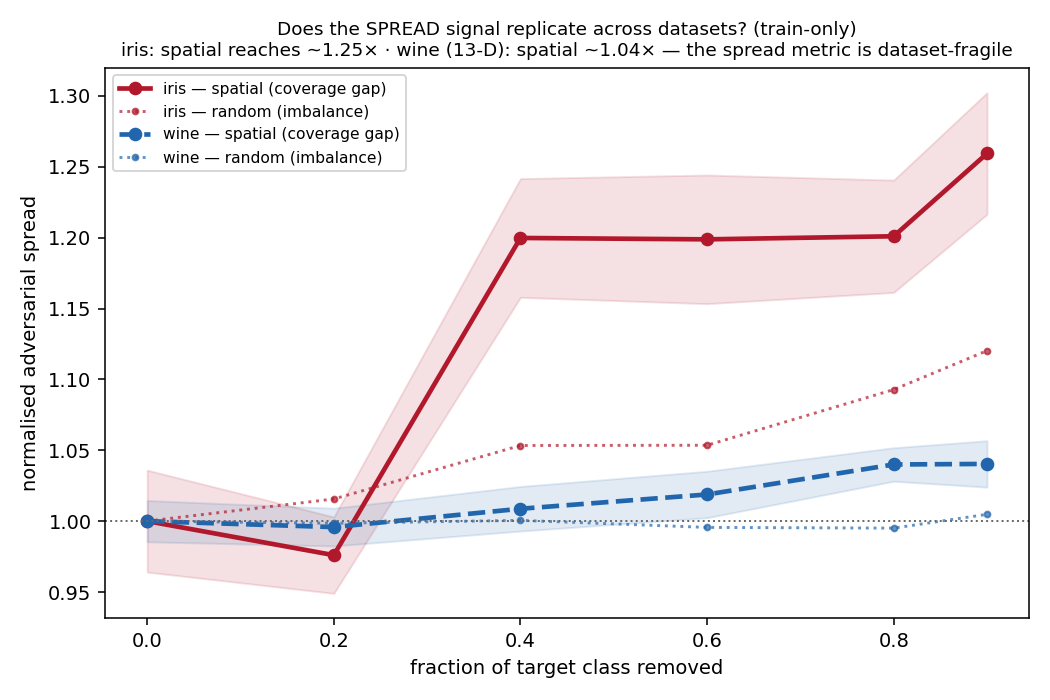
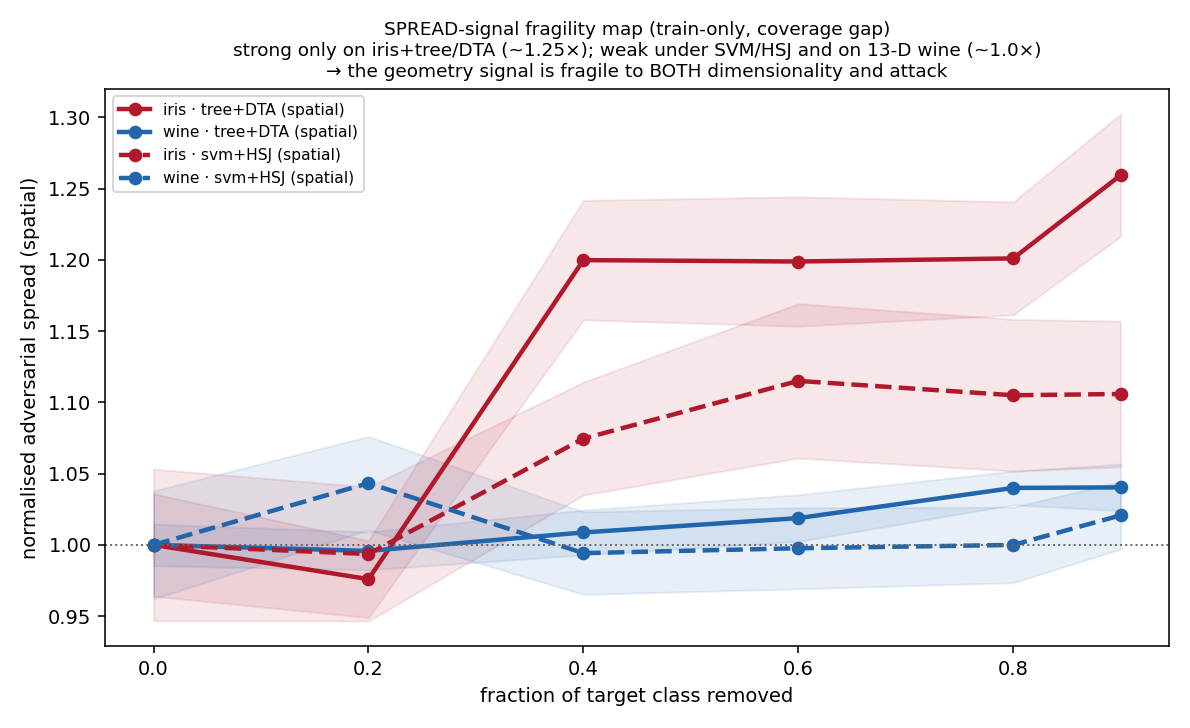
Variance study: add SVM+HSJ cross-dataset; spread signal fragile to attack too
- run_variance.py: +svm+HSJ (--model svm, own parquet, checkpointed); +--smoke/--nseeds.
- plot_variance.py: model-aware -> variance_svm_{iris,wine}.png + tree-vs-svm fragility map.
- results_variance_svm.parquet (630 rows, 15 seeds).
- FINDINGS_variance F4: recall discriminator REPLICATES + strong under svm+HSJ
  (wine spatial recall 0.48 vs random 0.90); spread signal WEAKENS further (iris 1.11x
  under HSJ vs 1.26x DTA; wine ~1.0x) -> geometry signal fragile to BOTH dimensionality
  AND attack. before-split composition artifact + accuracy confound both replicate.
  RF+HSJ skipped (impractical). Model-coverage caveat updated.

diff --git a/defect_expansion_experiment/plot_variance.py b/defect_expansion_experiment/plot_variance.py
@@ -19,7 +19,11 @@ import matplotlib.pyplot as plt
 
 HERE = Path(__file__).resolve().parent
 PLOTS = HERE / 'plots'; PLOTS.mkdir(exist_ok=True)
-D = pl.read_parquet(HERE / 'results_variance.parquet')
+DFS = {'tree+DTA': pl.read_parquet(HERE / 'results_variance.parquet')}
+_svm = HERE / 'results_variance_svm.parquet'
+if _svm.exists():
+    DFS['svm+HSJ'] = pl.read_parquet(_svm)
+D = DFS['tree+DTA']                                    # default for the per-dataset 3x2 figures
 FRAC = [0.0, 0.2, 0.4, 0.6, 0.8, 0.9]
 COL = {'random': '#2ca25f', 'spatial': '#c0392b'}
 LAB = {'random': 'random (imbalance)', 'spatial': 'spatial (coverage gap)'}
@@ -27,18 +31,20 @@ DS_TITLE = {'iris': 'iris (4-D · tc=2 virginica · feat=petal width)',
             'wine': 'wine (13-D · tc=0 · feat=proline)'}
 
 
-def base_spread(ds):
-    return D.filter((pl.col('dataset') == ds) & (pl.col('frac') == 0.0))['mean_dist'].drop_nans().mean()
+def base_spread(ds, df=None):
+    df = D if df is None else df
+    return df.filter((pl.col('dataset') == ds) & (pl.col('frac') == 0.0))['mean_dist'].drop_nans().mean()
 
 
-def series(ds, structure, protocol, col, norm=None):
+def series(ds, structure, protocol, col, norm=None, df=None):
+    df = D if df is None else df
     xs, ms, cis = [], [], []
     for f in FRAC:
         if f == 0.0:
-            sub = D.filter((pl.col('dataset') == ds) & (pl.col('frac') == 0.0))
+            sub = df.filter((pl.col('dataset') == ds) & (pl.col('frac') == 0.0))
         else:
-            sub = D.filter((pl.col('dataset') == ds) & (pl.col('frac') == f) &
-                           (pl.col('structure') == structure) & (pl.col('protocol') == protocol))
+            sub = df.filter((pl.col('dataset') == ds) & (pl.col('frac') == f) &
+                            (pl.col('structure') == structure) & (pl.col('protocol') == protocol))
         v = sub[col].drop_nans()
         if len(v):
             m = float(v.mean()); s = float(v.std()) if len(v) > 1 else 0.0
@@ -47,8 +53,10 @@ def series(ds, structure, protocol, col, norm=None):
     return np.array(xs), np.array(ms), np.array(cis)
 
 
-def fig_dataset(ds):
-    nb = base_spread(ds)
+def fig_dataset(ds, df=None, ma='tree+DTA', suffix=''):
+    global D
+    D = df if df is not None else DFS[ma]
+    nb = base_spread(ds, D)
     rows = [('vacc', 'test accuracy', None, (0, 1.03)),
             ('min_recall', 'minority-class recall', None, (0, 1.03)),
             ('mean_dist', 'normalised adversarial spread\n(× clean baseline)', nb, None)]
@@ -75,30 +83,30 @@ def fig_dataset(ds):
                 ax.set_xlabel('fraction of target class removed (severity)')
             if i == 0 and j == 0:
                 ax.legend(fontsize=8, loc='lower left')
-    fig.suptitle(f'{DS_TITLE[ds]} — overfit tree + white-box DTA, 30 seeds\n'
+    fig.suptitle(f'{DS_TITLE[ds]} — {ma}\n'
                  'coverage gap (spatial) vs imbalance (random) · train-only vs before-split',
                  fontsize=12)
     fig.tight_layout(rect=[0, 0, 1, 0.95])
-    p = PLOTS / f'variance_{ds}.png'; fig.savefig(p, dpi=135); plt.close(fig)
+    p = PLOTS / f'variance{suffix}_{ds}.png'; fig.savefig(p, dpi=135); plt.close(fig)
     print('wrote', p)
 
 
 def fig_summary():
-    """Cross-dataset: spatial normalised spread, train-only — does the spread signal replicate?"""
-    fig, ax = plt.subplots(figsize=(7.5, 5))
-    style = {'iris': ('-', '#b2182b'), 'wine': ('--', '#2166ac')}
-    for ds, (ls, c) in style.items():
-        nb = base_spread(ds)
-        x, m, ci = series(ds, 'spatial', 'train_only', 'mean_dist', norm=nb)
-        ax.plot(x, m, marker='o', ls=ls, lw=2.4, color=c, label=f'{ds} — spatial (coverage gap)')
-        ax.fill_between(x, m - ci, m + ci, color=c, alpha=0.13)
-        xr, mr, cir = series(ds, 'random', 'train_only', 'mean_dist', norm=nb)
-        ax.plot(xr, mr, marker='.', ls=':', lw=1.5, color=c, alpha=0.7, label=f'{ds} — random (imbalance)')
+    """Spatial normalised spread, train-only, across dataset x (model,attack) — the fragility map."""
+    fig, ax = plt.subplots(figsize=(8.5, 5.2))
+    col = {'iris': '#b2182b', 'wine': '#2166ac'}
+    ls = {'tree+DTA': '-', 'svm+HSJ': '--'}
+    for ma, df in DFS.items():
+        for ds in ['iris', 'wine']:
+            nb = base_spread(ds, df)
+            x, m, c = series(ds, 'spatial', 'train_only', 'mean_dist', norm=nb, df=df)
+            ax.plot(x, m, marker='o', ls=ls[ma], lw=2.3, color=col[ds], label=f'{ds} · {ma} (spatial)')
+            ax.fill_between(x, m - c, m + c, color=col[ds], alpha=0.10)
     ax.axhline(1.0, ls=':', color='0.4', lw=1)
-    ax.set_xlabel('fraction of target class removed'); ax.set_ylabel('normalised adversarial spread')
-    ax.set_title('Does the SPREAD signal replicate across datasets? (train-only)\n'
-                 'iris: spatial reaches ~1.25× · wine (13-D): spatial ~1.04× — the spread metric is dataset-fragile',
-                 fontsize=9.5)
+    ax.set_xlabel('fraction of target class removed'); ax.set_ylabel('normalised adversarial spread (spatial)')
+    ax.set_title('SPREAD-signal fragility map (train-only, coverage gap)\n'
+                 'strong only on iris+tree/DTA (~1.25×); weak under SVM/HSJ and on 13-D wine (~1.0×)\n'
+                 '→ the geometry signal is fragile to BOTH dimensionality and attack', fontsize=9.5)
     ax.legend(fontsize=8, loc='upper left')
     fig.tight_layout()
     p = PLOTS / 'variance_spread_summary.png'; fig.savefig(p, dpi=140); plt.close(fig)
@@ -107,5 +115,7 @@ def fig_summary():
 
 if __name__ == '__main__':
     for ds in ['iris', 'wine']:
-        fig_dataset(ds)
+        fig_dataset(ds, DFS['tree+DTA'], 'tree+DTA', '')
+        if 'svm+HSJ' in DFS:
+            fig_dataset(ds, DFS['svm+HSJ'], 'svm+HSJ', '_svm')
     fig_summary()

diff --git a/defect_expansion_experiment/run_variance.py b/defect_expansion_experiment/run_variance.py
@@ -14,7 +14,7 @@ class = lowest baseline recall; spatial feature = most class-discriminative), do
 Reuses inject_delete (./run_imbalance.py, train-only) and cluster_stats (../outlier_experiment).
 Usage: python run_variance.py
 """
-import os
+import os, sys
 for _v in ['OMP_NUM_THREADS', 'OPENBLAS_NUM_THREADS', 'MKL_NUM_THREADS', 'NUMEXPR_NUM_THREADS']:
     os.environ[_v] = '1'
 import warnings, time, importlib.util
@@ -24,13 +24,17 @@ import numpy as np, polars as pl
 warnings.filterwarnings('ignore')
 from sklearn.datasets import load_iris, load_wine
 from sklearn.tree import DecisionTreeClassifier
+from sklearn.svm import SVC
 from sklearn.model_selection import StratifiedKFold
 from sklearn.preprocessing import OneHotEncoder, StandardScaler
 from art.estimators.classification import SklearnClassifier
-from art.attacks.evasion import DecisionTreeAttack
+from art.attacks.evasion import DecisionTreeAttack, HopSkipJump
 
 HERE = Path(__file__).resolve().parent
-OUT = HERE / 'results_variance.parquet'
+# model+attack for this run: tree+DTA (default, deterministic) or svm+HSJ (black-box, global boundary)
+MODEL = 'svm' if '--model' in sys.argv and sys.argv[sys.argv.index('--model') + 1] == 'svm' else 'tree'
+ATTACK = 'hsj' if MODEL == 'svm' else 'dta'
+OUT = HERE / ('results_variance_svm.parquet' if MODEL == 'svm' else 'results_variance.parquet')
 _spec = importlib.util.spec_from_file_location('imb_lib', HERE / 'run_imbalance.py')
 _imb = importlib.util.module_from_spec(_spec); _spec.loader.exec_module(_imb)
 inject_delete = _imb.inject_delete
@@ -68,6 +72,22 @@ def delete_full(X, y, tc, feat, frac, structure, rng):
     return X[keep], y[keep]
 
 
+def _fit(Xt, yt, yoh):
+    if MODEL == 'svm':
+        m = SVC(kernel='rbf', probability=True, random_state=42).fit(Xt, yt)
+        return SklearnClassifier(m)
+    m = DecisionTreeClassifier(max_depth=None, random_state=42).fit(Xt, yt)
+    art = SklearnClassifier(m); art.fit(Xt, yoh.transform(yt.reshape(-1, 1)))   # onehot-refit (proven tree pipeline)
+    return art
+
+
+def _attack(art, Xc, nfeat):
+    if MODEL == 'svm':
+        hs = HopSkipJump(classifier=art, norm=2, max_iter=10, max_eval=200, init_eval=50, verbose=False)
+        return hs.generate(Xc)
+    return DecisionTreeAttack(classifier=art).generate(Xc)
+
+
 def run_cell(dataset, structure, protocol, frac, seed):
     cfg = CFG[dataset]; tc, feat = cfg['tc'], cfg['feat']
     X, y = cfg['load'](return_X_y=True)
@@ -82,8 +102,7 @@ def run_cell(dataset, structure, protocol, frac, seed):
         Xt, Xv, yt, yv = X[tr], X[te], y[tr], y[te]
         if protocol == 'train_only' and frac > 0:
             Xt, yt = inject_delete(Xt, yt, tc, feat, frac, structure, rng)
-        m = DecisionTreeClassifier(max_depth=None, random_state=42).fit(Xt, yt)
-        art = SklearnClassifier(m); art.fit(Xt, yoh.transform(yt.reshape(-1, 1)))
+        art = _fit(Xt, yt, yoh)
         tacc = float((np.argmax(art.predict(Xt), axis=1) == yt).mean())
         pv = np.argmax(art.predict(Xv), axis=1)
         vacc = float((pv == yv).mean())
@@ -91,19 +110,28 @@ def run_cell(dataset, structure, protocol, frac, seed):
         min_recall = float((pv[mmask] == tc).mean()) if mmask.sum() else np.nan
         c = pv == yv
         if c.sum():
-            adv = DecisionTreeAttack(classifier=art).generate(Xv[c])
+            adv = _attack(art, Xv[c], X.shape[1])
             ap = np.argmax(art.predict(adv), axis=1); adv = adv[ap != yv[c]]
         else:
             adv = np.empty((0, X.shape[1]))
         md = cluster_stats(adv)[2] if len(adv) else np.nan
         folds.append(dict(tacc=tacc, vacc=vacc, min_recall=min_recall, nadv=len(adv), mean_dist=md))
     r = {k: float(np.nanmean([f[k] for f in folds])) for k in folds[0]}
-    r.update(dataset=dataset, model='tree', attack='dta', structure=structure, protocol=protocol,
+    r.update(dataset=dataset, model=MODEL, attack=ATTACK, structure=structure, protocol=protocol,
              tc=int(tc), feat=int(feat), frac=float(frac), seed=int(seed))
     return r
 
 
 def main():
+    global SEEDS
+    if '--smoke' in sys.argv:
+        for ds in CFG:
+            t0 = time.time(); r = run_cell(ds, 'spatial', 'train_only', 0.8, 42)
+            print(f'  smoke {MODEL}+{ATTACK} {ds}: {time.time()-t0:.1f}s vacc={r["vacc"]:.3f} '
+                  f'spread={r["mean_dist"]:.3f} recall={r["min_recall"]:.3f}', flush=True)
+        return
+    if '--nseeds' in sys.argv:
+        SEEDS = SEEDS[:int(sys.argv[sys.argv.index('--nseeds') + 1])]
     rows, t0 = [], time.time()
     grid = []
     for ds, seed in product(CFG, SEEDS):
@@ -113,8 +141,8 @@ def main():
     for i, (ds, s, p, f, sd) in enumerate(grid, 1):
         rows.append(run_cell(ds, s, p, f, sd))
         if i % 100 == 0 or i == len(grid):
-            print(f'  [{i}/{len(grid)}] {(time.time()-t0)/60:.1f}m', flush=True)
-    pl.DataFrame([{c: r.get(c, np.nan) for c in COLS} for r in rows]).write_parquet(OUT)
+            pl.DataFrame([{c: r.get(c, np.nan) for c in COLS} for r in rows]).write_parquet(OUT)  # checkpoint
+            print(f'  [{i}/{len(grid)}] {(time.time()-t0)/60:.1f}m (checkpointed {len(rows)} rows)', flush=True)
     print(f'DONE: {len(rows)} rows -> {OUT.name} in {(time.time()-t0)/60:.1f}m', flush=True)
 
 

diff --git a/defect_expansion_experiment/FINDINGS_variance.md b/defect_expansion_experiment/FINDINGS_variance.md
@@ -81,6 +81,24 @@ What *does* survive is the cheaper, model-agnostic **per-class recall** signal a
 dimension-robust spread measure (kNN-distance ratio, relative density vs clean data, or PCA-then-
 OPTICS) — see PLAN / open questions.
 
+## F4 — SVM + HSJ (black-box) replicates the mechanisms AND weakens the spread signal further
+
+Ran **svm + HopSkipJump** across both datasets (2×2 structure×protocol × frac × 15 seeds,
+`results_variance_svm.parquet`; `plots/variance_svm_{iris,wine}.png`,
+`plots/variance_spread_summary.png` fragility map).
+
+- **Recall discriminator replicates and is strong** (train-only, frac 0.9): spatial vs random
+  minority recall — iris 0.44 vs 0.67, **wine 0.48 vs 0.90** (gap 0.42). Robust across dataset
+  **and** model/attack.
+- **Spread signal weakens *further* under HSJ:** iris spatial only ~1.11× (vs 1.26× under white-box
+  DTA); wine flat ~1.0×. So the geometry-spread signal is fragile to **both** dimensionality
+  (dataset) **and** attack — black-box HSJ lands on the smooth SVM boundary surface and is less
+  geometry-sensitive than white-box DTA, which lands on discrete tree leaves. The fragility map
+  shows it at a glance: strong *only* on iris+tree/DTA (~1.25×), everything else ≈ 1.0×.
+- **Before-split composition artifact + accuracy confound both replicate** under SVM+HSJ.
+- **Conclusion.** Recall is the robust **cross-dataset AND cross-model** signal; the
+  spread/geometry signal clearly fires only for iris + white-box tree/DTA.
+
 ---
 
 # Mechanisms (observation → hypothesis → evidence → conclusion)
@@ -167,9 +185,9 @@ reproducible from the same seeds range(300,320), overfit tree + DTA, standardize
   panels are noisy/near-meaningless — another reason train-only is the correct protocol.
 
 ## Caveats
-- Model coverage: the cross-dataset variance study is **tree + white-box DTA only**. SVM + HSJ was
-  run on iris (train-only) in Phase 1 but not on wine / not in the before-split 2×2; RF + HSJ is
-  impractical cross-dataset (~73 s/cell + hangs). Global StandardScaler (mild leakage, acceptable
-  for this exploratory check).
+- Model coverage: cross-dataset variance now covers **tree + white-box DTA (30 seeds)** and
+  **SVM + black-box HSJ (15 seeds)** on iris + wine, both protocols (F4). RF + HSJ remains
+  impractical cross-dataset (~73 s/cell + hangs) — not run. Global StandardScaler (mild leakage,
+  acceptable for this exploratory check).
 - Two datasets only — wine is still low-dimensional by real-world standards; a >50-D set
   (digits, or a real tabular dataset) would test the spread collapse harder.
